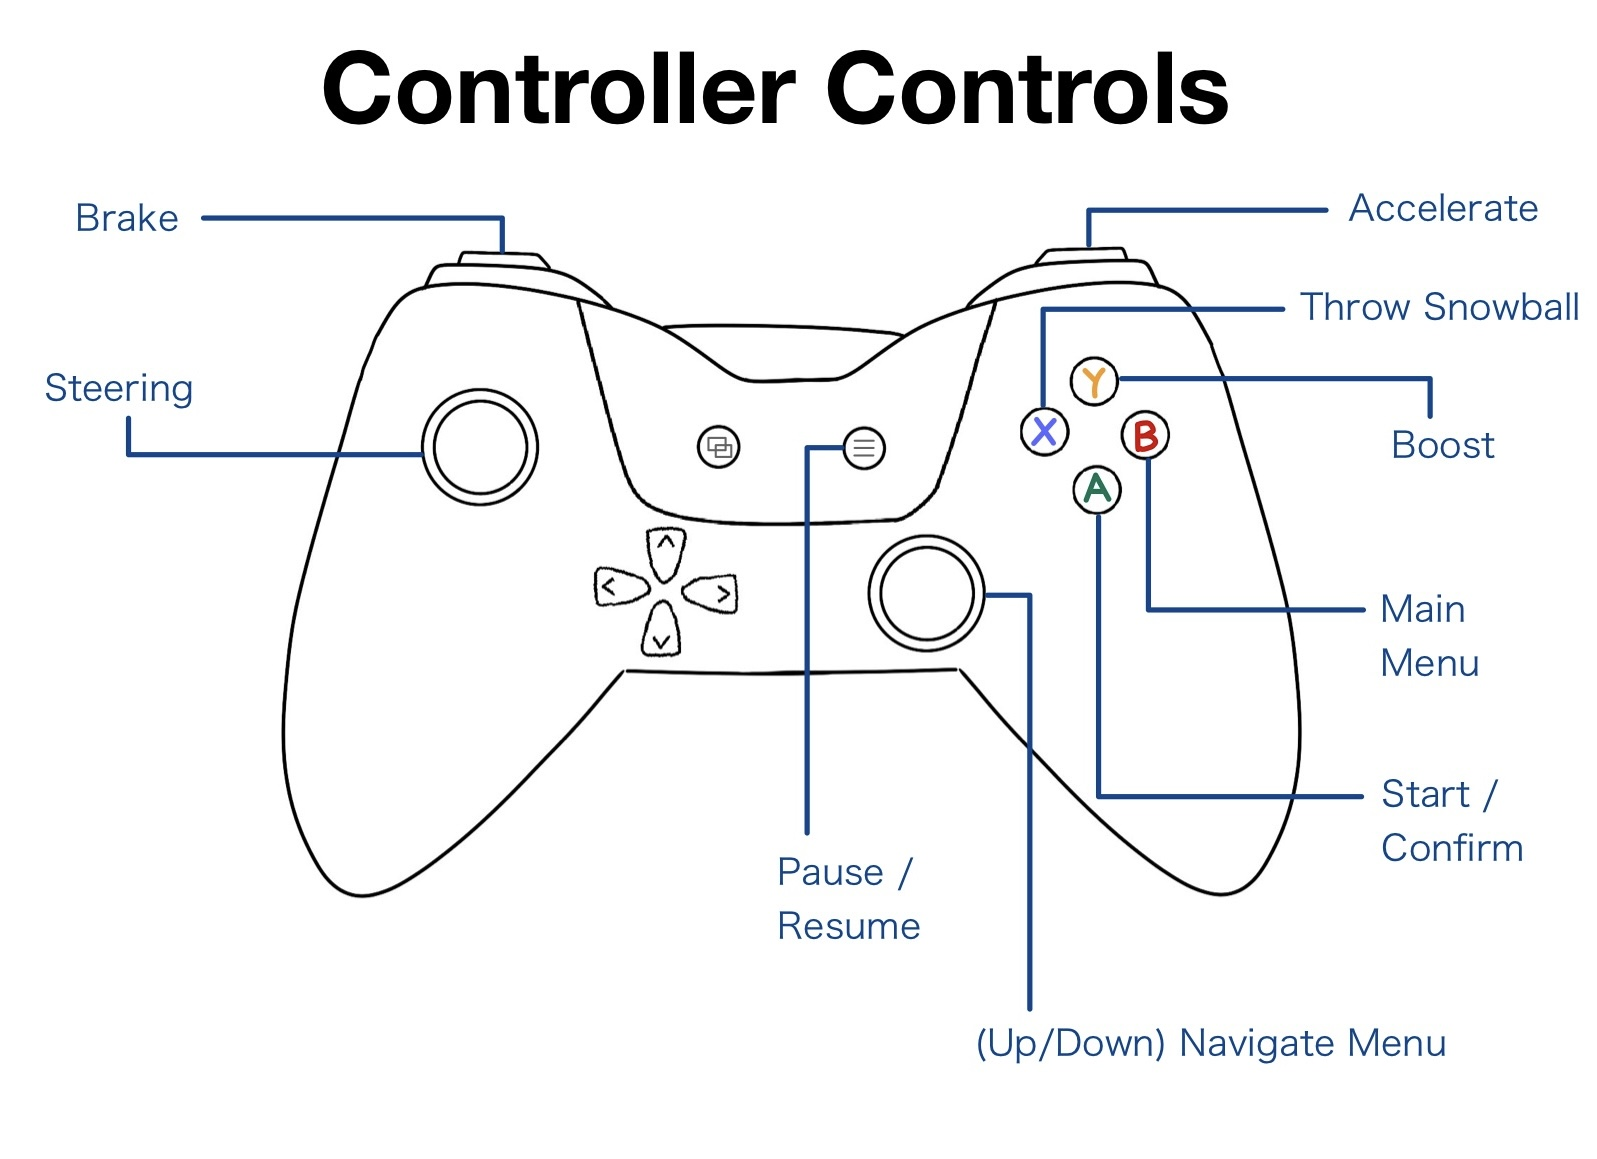
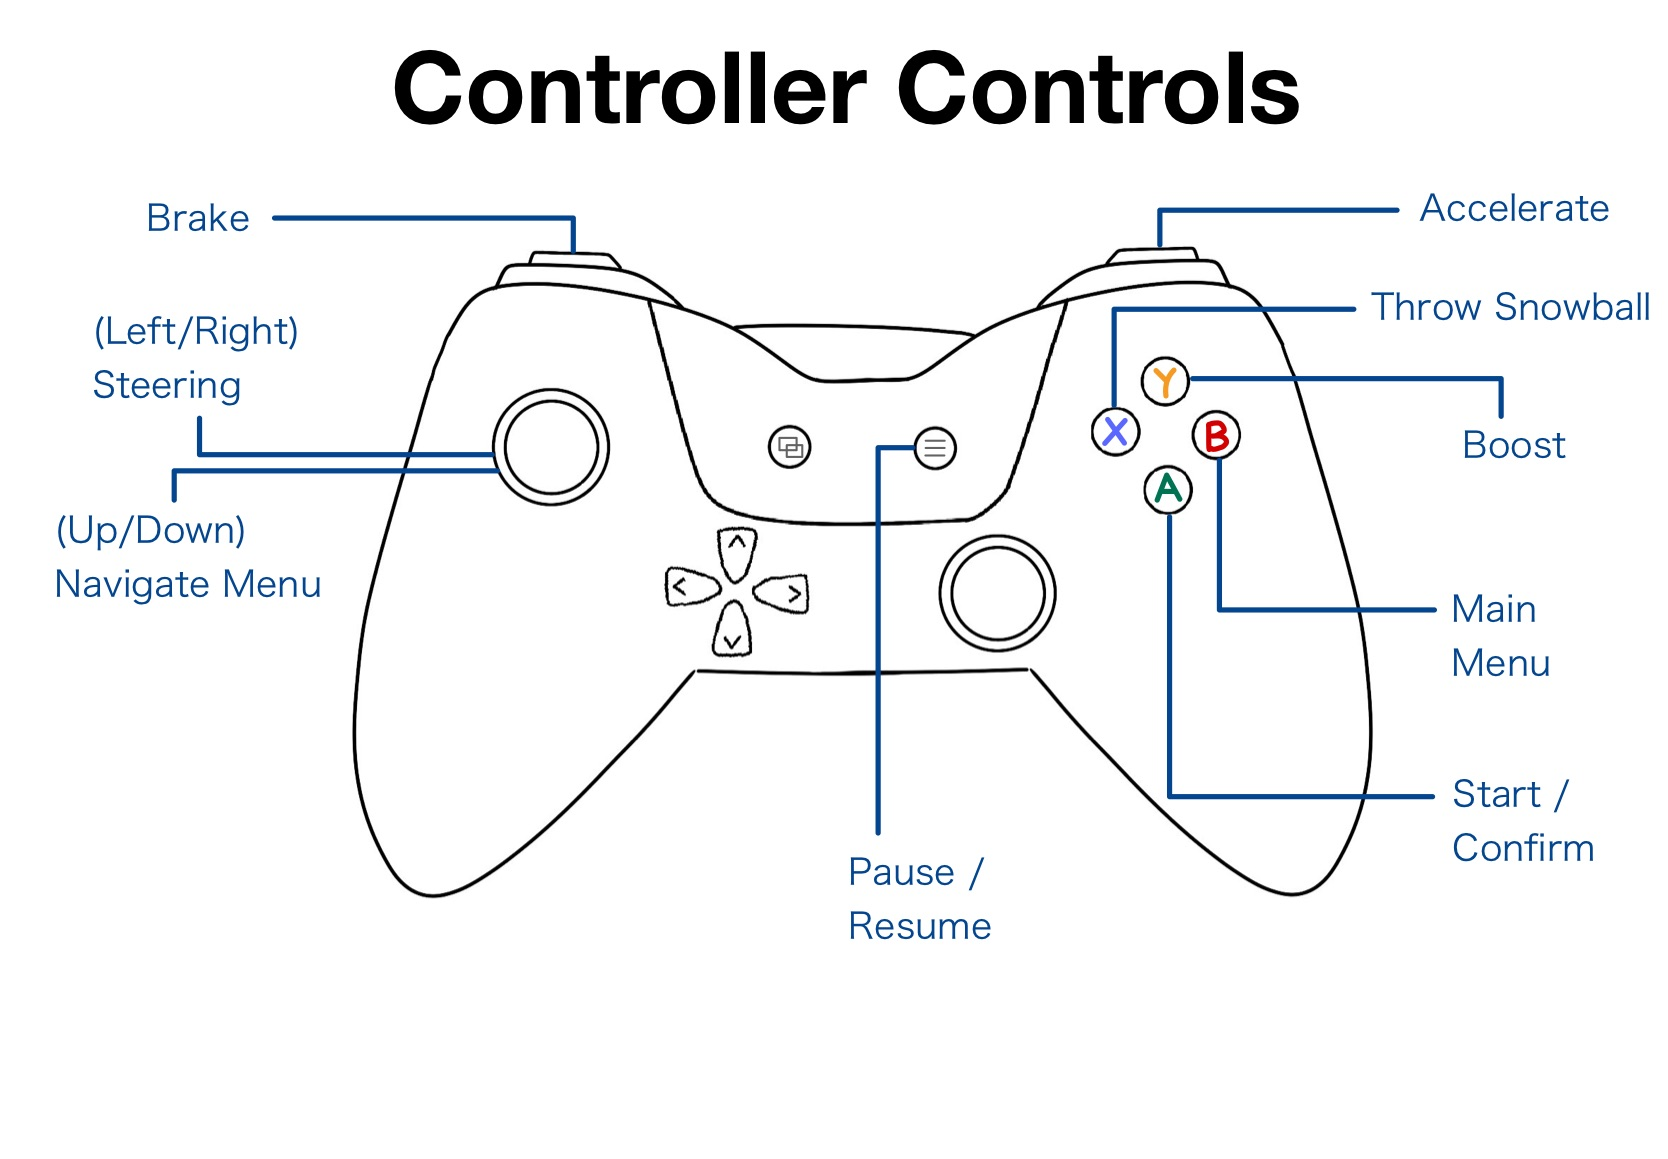
fix: updated controller mapping image

diff --git a/src/ui/GameMenus.cpp b/src/ui/GameMenus.cpp
@@ -67,7 +67,7 @@ void GameMenus::init()
     // pre-load the texture for the help menu keyboard controls
     try
     {
-        keyboardTexture = assetManager.loadTexture("assets/ui/Keyboard_controls_1.jpeg");
+        keyboardTexture = assetManager.loadTexture("assets/ui/Keyboard_Controls_1.jpeg");
         logger::info("Keyboard controls texture loaded successfully");
     }
     catch (const std::exception& e)
@@ -78,7 +78,7 @@ void GameMenus::init()
     // pre-load the texture for the help menu controller controls
     try
     {
-        controllerTexture = assetManager.loadTexture("assets/ui/Controller_controls_1.jpeg");
+        controllerTexture = assetManager.loadTexture("assets/ui/Controller_Controls_1.jpeg");
         logger::info("Controller controls texture loaded successfully");
     }
     catch (const std::exception& e)
